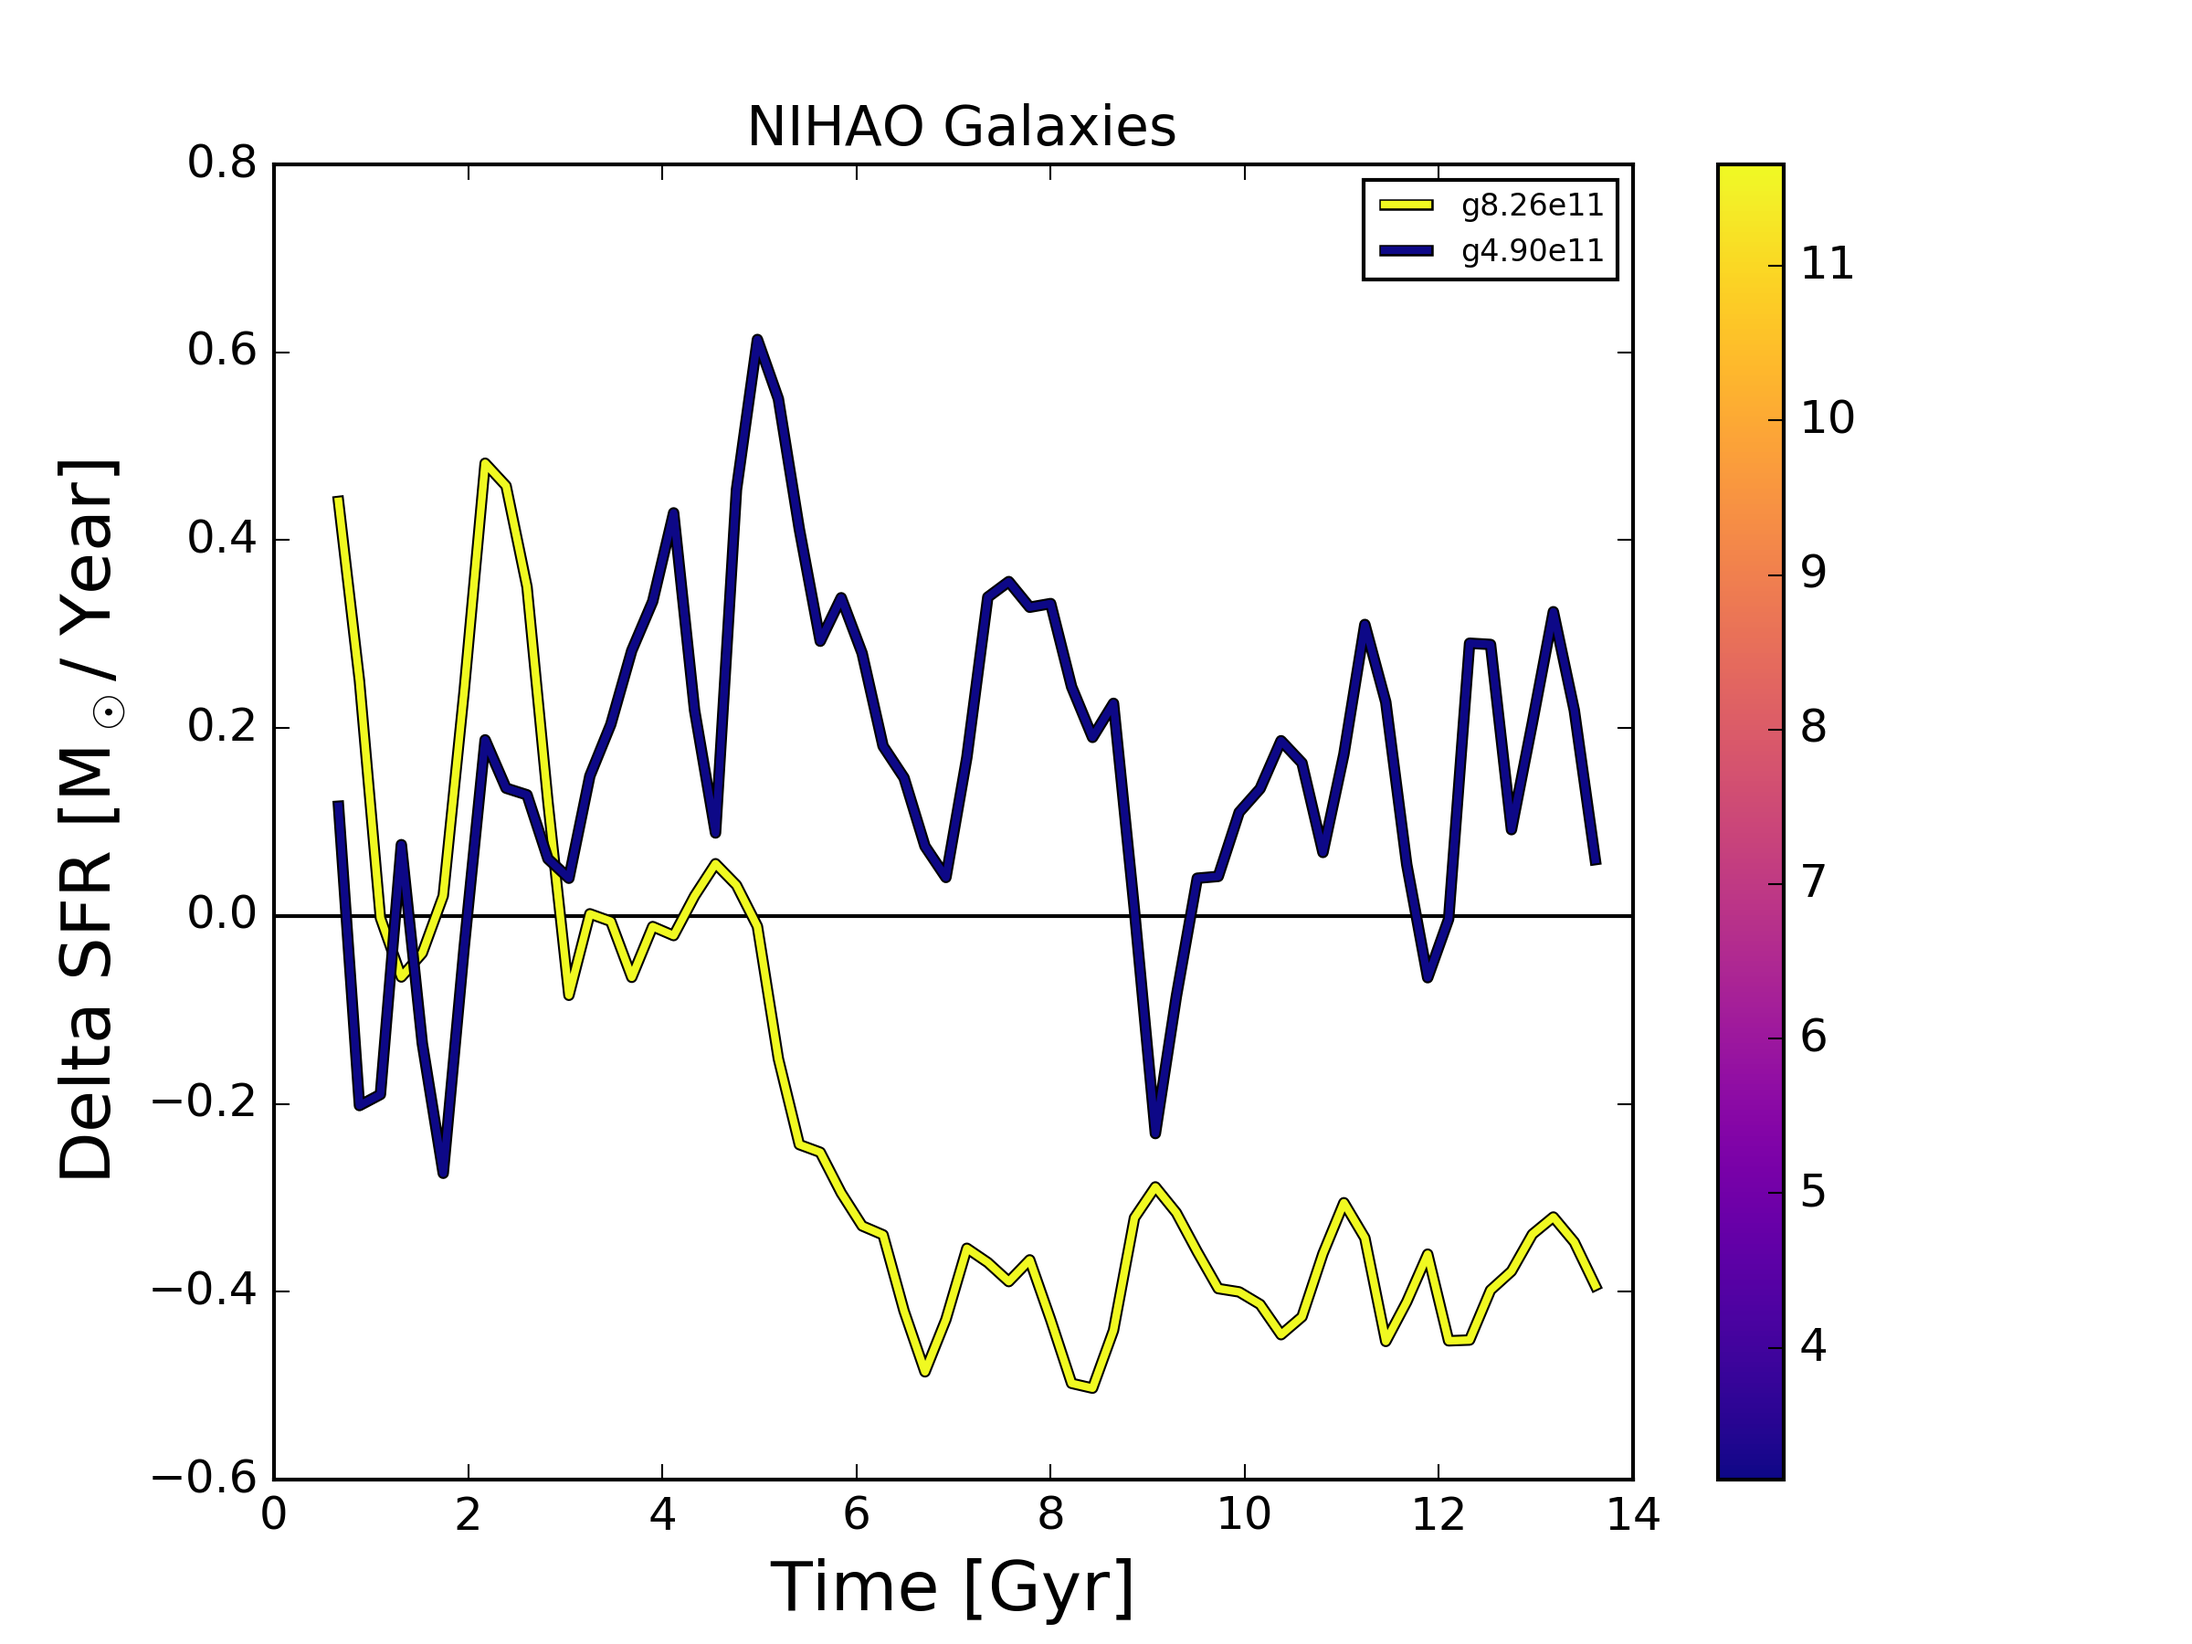
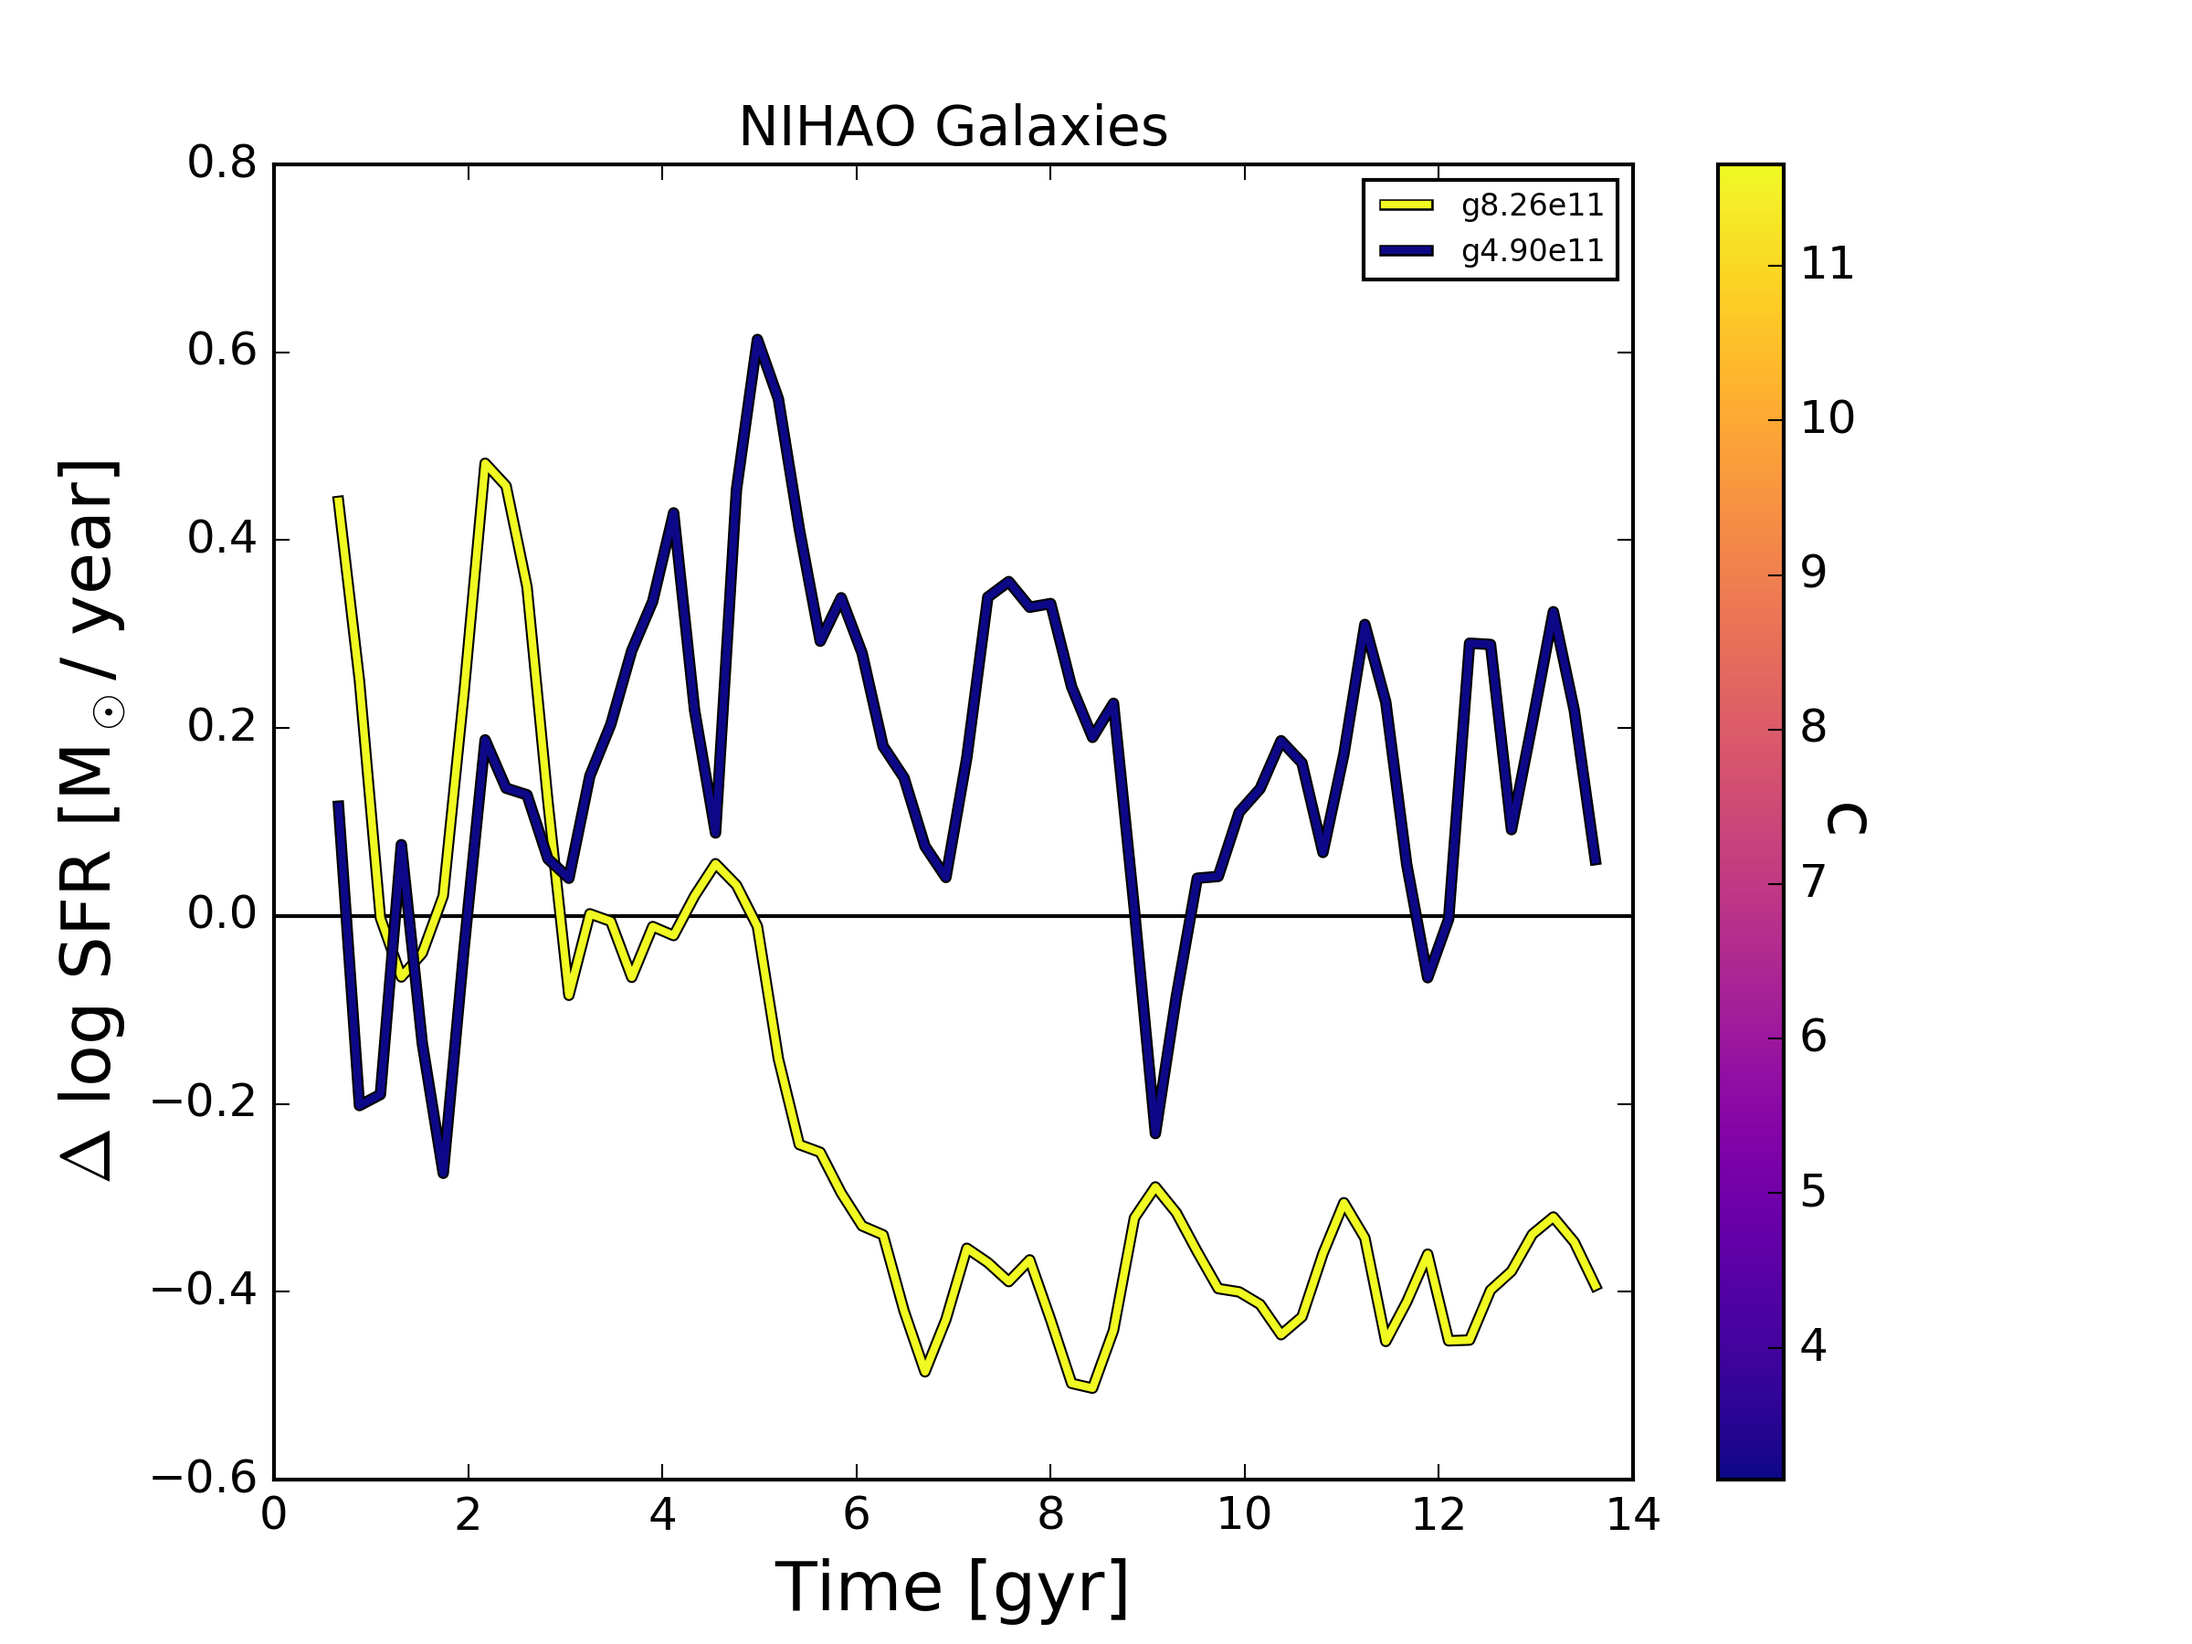
edit

diff --git a/2_mssfrWandWobh.py b/2_mssfrWandWobh.py
@@ -16,14 +16,17 @@ galDictEll = pickle.load(open("pickles/ELL_WOBH_NIHAOproperties.pkl", "rb"))
 #NIHAO non ellipical
 galDict = pickle.load(open("pickles/ALLjanNEW_NIHAOproperties.pkl", "rb"))
 galDictBH = pickle.load(open("pickles/NIHAO_BHproperties.pkl", "rb"))
-
-
-
+print(galDictEll.keys())
+print(galDictEllBH.keys())
+print(galDict.keys())
+print(galDictBH.keys())
+exit()
 sfr = []
 mstar = []
 sfrEll = []
 mstarEll = []
 galsTot = 0
+'''
 for g in galDictBH.keys():
     try:
         propDict = galDict[g]
@@ -33,15 +36,16 @@ for g in galDictBH.keys():
     ms = propDict['ms'][-1]
     sfr = propDict['sfr'][-1]
     z = propDict['z'][-1]
-    msBH = propDictBH['ms'][0]
-    sfrBH = propDictBH['sfr'][0]
-    msBHflast = propDictBH['ms'][-1]
+    msBH = propDictBH['ms'][-1]
+    sfrBH = propDictBH['sfr'][-1]
+    msBHlast = propDictBH['ms'][-1]
     sfrBHlast = propDictBH['sfr'][-1]
     print("MS")
     print(np.log10(propDictBH['ms']))
     print("SFR")
     print(np.log10(propDictBH['sfr']))
-
+    print("Last MS", np.log10(msBHlast))
+    print("Last SFR", np.log10(sfrBHlast))
 
 
     zBH = propDictBH['z'][-1]
@@ -54,6 +58,7 @@ for g in galDictBH.keys():
     plt.plot(np.log10(ms), np.log10(sfr),  color ='r', marker = 'o', alpha=0.5, )
     plt.plot(np.log10(msBH), np.log10(sfrBH),  color ='r', alpha=0.5, marker="^")
     galsTot += 1
+'''
 for g in galDictEllBH.keys():
     try:
         propDict = galDictEll[g]
@@ -62,14 +67,20 @@ for g in galDictEllBH.keys():
        continue
     ms = propDict['ms'][-1]
     sfr = propDict['sfr'][-1]
+    z = propDict['z'][-1]
+    zBH = propDictBH['z'][-1]
     msBH = propDictBH['ms'][-1]
-    print(propDictBH['ms'])
     sfrBH = propDictBH['sfr'][-1]
+    msBHlast = propDictBH['ms'][-1]
+    sfrBHlast = propDictBH['sfr'][-1]
+    print(propDictBH['ms'])
+    print('gal', g)
+    print('zBH', zBH)
+
     plt.plot(np.log10([ms, msBH]), np.log10([sfr, sfrBH]), color='k', alpha=0.2)
     plt.plot(np.log10(ms), np.log10(sfr),  color ='r', marker='o',  alpha=0.5, )
     plt.plot(np.log10(msBH), np.log10(sfrBH),  color ='r', alpha=0.5, marker="^")
     galsTot += 1
-
 
 print(galsTot)
 '''

diff --git a/4_del_sfr_2gals.py b/4_del_sfr_2gals.py
@@ -244,7 +244,7 @@ for i, name, p in zip(gal_arr, size_names, plot):
         label_long = g
         linestyle='-'
         #plt.plot(a, b, color=cmap(norm(conc0, cur_min, cur_max)),  label=label_long,  ls=linestyle,path_effects=[path_effects.SimpleLineShadow(),path_effects.Normal()] )
-       plt.plot(a, b, color=cmap(norm(conc0, cur_min, cur_max)),linewidth=2,  label=label_long,  ls=linestyle,path_effects=[path_effects.Stroke(linewidth=3, foreground='k'), path_effects.Normal()])
+        plt.plot(a, b, color=cmap(norm(conc0, cur_min, cur_max)),linewidth=2,  label=label_long,  ls=linestyle,path_effects=[path_effects.Stroke(linewidth=3, foreground='k'), path_effects.Normal()])
         #plt.plot(a, b, color='k',  label=label_long,  ls=linestyle, linewidth)
         #plt.plot(a, b, color=cmap(norm(conc0, cur_min, cur_max)),  label=label_long,  ls=linestyle,
         #plt.plot(a, b, color=cmap(norm(conc0, cur_min, cur_max)),linewidth =3,  label=label_long,  ls=linestyle,)
@@ -255,11 +255,13 @@ for i, name, p in zip(gal_arr, size_names, plot):
     sm = plt.cm.ScalarMappable(cmap='plasma', norm=plt.Normalize(vmin=cur_min, vmax=cur_max))
     #make empty array to do custom color map
     sm._A = []
-    plt.colorbar(sm)
+    cbar = plt.colorbar(sm,)
+    cbar.set_label('c', rotation=270, fontsize=18)
+
     #plt.plot([0.0, 12.5], [0,0])
-    plt.ylabel("Delta SFR [M$_\odot$/ Year]", fontsize=18)
-    plt.xlabel("Time [Gyr]", fontsize=18)
-    plt.title( " NIHAO Galaxies")
+    plt.ylabel("$\Delta$ log SFR [M$_\odot$/ year]", fontsize=18)
+    plt.xlabel("Time [gyr]", fontsize=18)
+    plt.title( "NIHAO Galaxies")
     plt.legend(prop={'size': 8}, loc='best')
     plt.savefig(str(fileBaseFalcon + "/capstoneFinal/plots/4_deltasfr2"  + ".png"), dpi=300)
     plt.show()
